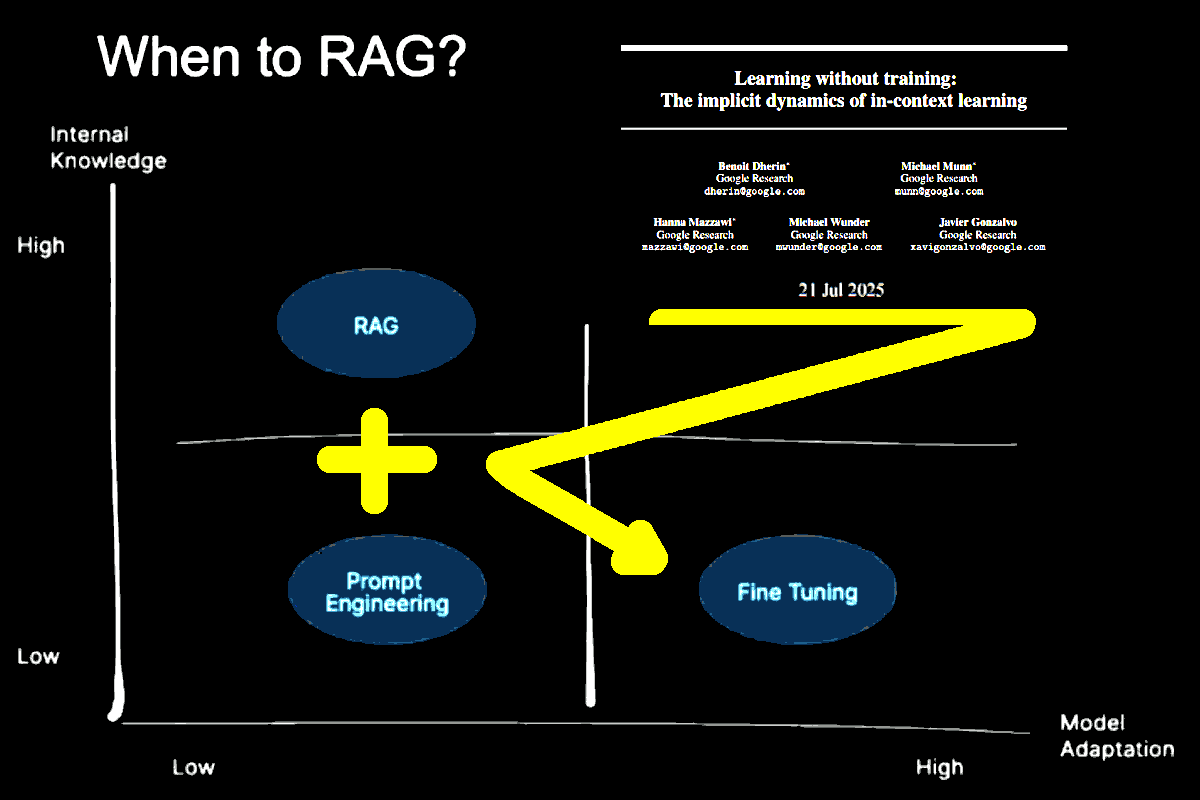
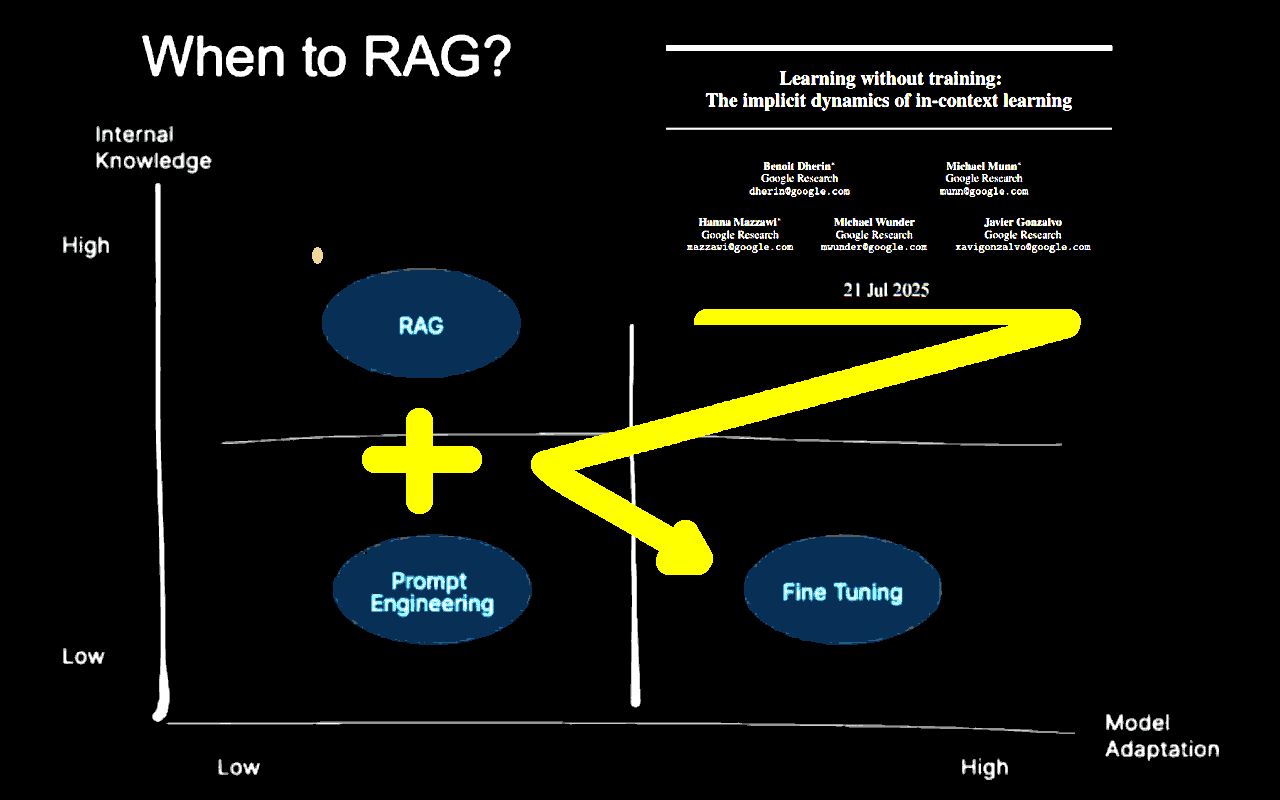
where-the-magic-happes-in-ai-prompting.md: 2nd edt. p.3

diff --git a/html/where-the-magic-happes-in-ai-prompting.html b/html/where-the-magic-happes-in-ai-prompting.html
@@ -18,7 +18,7 @@
 <style>#printlink { display: inline; } @page { size: legal; margin: 0.50in 13.88mm 0.50in 13.88mm; zoom: 100%; } @media print { html { zoom: 100%; } }</style>
 <p class='topbar'></p>
 <div class='topbar' width='800px' translate='no'><b id='menu' onClick='nextStylesheet()'>&thinsp;&#9783;&thinsp;&Ropf;</b> &thinsp;&mdash;&thinsp; &#8543;&#8239;release: <b class='topbar'>2025-08-14&nbsp;<sup class='date-type topbar' id='datenote'>(&hairsp;<a href='#date-legenda' class='date-type topbar'>2</a>&hairsp;)</sup></b>  &thinsp;&mdash;&thinsp; rev.: <b class='topbar
-'>12</b rev_num='
+'>13</b rev_num='
 '> &thinsp;&mdash;&thinsp; transl.:&nbsp; <a class='topbar' href='https://robang74-github-io.translate.goog/chatbots-for-fun/html/where-the-magic-happes-in-ai-prompting?_x_tr_sl=en&_x_tr_tl=it&_x_tr_hl=it-IT&_x_tr_pto=wapp' target='_blank' rel='noopener noreferrer'>IT</a> &nbsp;<b>&middot;</b>&nbsp; <a class='topbar' href='https://robang74-github-io.translate.goog/chatbots-for-fun/html/where-the-magic-happes-in-ai-prompting?_x_tr_sl=en&_x_tr_tl=de&_x_tr_hl=de-DE&_x_tr_pto=wapp' target='_blank' rel='noopener noreferrer'>DE</a> &nbsp;<b>&middot;</b>&nbsp; <a class='topbar' href='https://robang74-github-io.translate.goog/chatbots-for-fun/html/where-the-magic-happes-in-ai-prompting?_x_tr_sl=en&_x_tr_tl=fr&_x_tr_hl=fr-FR&_x_tr_pto=wapp' target='_blank' rel='noopener noreferrer'>FR</a> &nbsp;<b>&middot;</b>&nbsp; <a class='topbar' href='https://robang74-github-io.translate.goog/chatbots-for-fun/html/where-the-magic-happes-in-ai-prompting?_x_tr_sl=en&_x_tr_tl=es&_x_tr_hl=es-ES&_x_tr_pto=wapp' target='_blank' rel='noopener noreferrer'>ES</a> &thinsp;&mdash;&thinsp; goto:&nbsp; <a class='topbar' href='../index.html#index'>.&#x27F0;.</a> &nbsp;<b>&middot;</b>&nbsp; <a class='topbar' href='../../roberto-a-foglietta/index.html'target=_blank>RAF</a> &nbsp;<b>&middot;</b>&nbsp; <a class='topbar' href='../../chatgpt-answered-prompts/index.html'target=_blank>Q&A</a> <span id='printlink'>&thinsp;&mdash;&thinsp; <b>⎙</b>&hairsp;: <a aria-label='print this page' class='topbar' href='javascript:window.print()'>PDF</a></span>&nbsp;</div>
 <div id="firstdiv">
 <p class='topbar'></p>
@@ -101,7 +101,7 @@ Despite underlying resources cannot be managed as explained, <tt>[CSC]</tt> inst
 <p></p>
 <H3 id="when-do-rag-always">When do RAG? Always!</H3>
 <p></p>
-<div align="center"><img class="bwsketch paleinv" src="../img/where-the-magic-happes-in-ai-prompting-img-002.png" width="800"><br></div>
+<div align="center"><img class="bwsketch paleinv" src="../img/where-the-magic-happes-in-ai-prompting-img-002.png" width="640"><br></div>
 <p></p>
 Confirmed that learning by context is a <a href="https://arxiv.org/abs/2507.16003" target='_blank' rel='noopener noreferrer'>fact</a> at the point that a LLM can be retrained in that <a href="gemini-context-retraining-for-human-rights.html#" target='_blank' rel='noopener noreferrer'>way</a>, do always RAG is a great idea. Please, notice that there are <b>many</b> RAG systems and related implementations. So, a great idea requires also a proper implementation to be effective.
 <p></p>
@@ -109,7 +109,9 @@ First of all, those AI model that have a relatively small context windows (e.g. 
 <p></p>
 Can we be surprised that in <tt>[CWM]</tt> the "stack" is a keyword which explains the management model to every low-level software developer? Managing a limited resource dividing it in text (code to run), static allocated data (status, settings) and a dynamic index of resources (functions, pointer, etc.) is not a novelty but the status of the art.
 <p></p>
-Only two things are missing in modern AI engines: 1. a handler to effectively stack the context window; 2. an standard API which the AI can handle for a convenient polity of usage. Is it smart enough to develop software? Then, it is smart enough to properly allocate and stack the context window. This, together with a few other standard system tools like a real-time clock (RTC) and a sane, stable and standardised API layer can do magic!
+Only two things are missing in modern AI engines: 1. a handler to effectively stack the context window; 2. an standard API which the AI can handle for a convenient polity of usage. Is it smart enough to develop software? Then, it is smart enough to properly allocate and stack the context window.
+<p></p>
+This, together with a few other standard system tools, like a real-time clock (RTC), supported by a sane, stable and standardised API layer can do magic!
 <p></p>
 <hr>
 <p></p>
@@ -135,15 +137,15 @@ For example, cost of processing per output tokens. We can have an AI that costs 
 <p></p>
 You might argue that <tt>Mt/$</tt> is just a metric, which should be read in combination with other metrics like the benchmarks which tell us "how smart" the AI is. Unfortunately, those metrics are "neutral" about verbotity <b>and</b> are not fully indicative about "how smart" but "how good at some tasks" is the AI. For example LLaMA4 scored very well in almost all the benchmarks but many users think it is dumber even than LLaMA2.
 <p></p>
+Speculations are like bets, some are lucky others not. Anyway, Meta AI is obviously interested in Facebook adopting their models to process the users posts and comments, translating and/or categorising users activities and profiling them. In this sense, LLaMA-4 is exposed to be poisoned by <a href="attenzione-e-contesto-nei-chatbot.html#malicious-image-safe-example" target='_blank' rel='noopener noreferrer'>prompt injection</a> embedded or hidden into apparently innocent stuff.
+<p></p>
+Malicious prompts aim to be persistent among working/chat sessions, which allows a much broader impact of their actions. On the other hand, some useful prompts are persistent within the chat scope, to leverage the "learning by context" effect. Since the beginning, LLaMA-4 wasn't great in coding which is also a good estimation of reasoning, and it is plausible that the final version was made more "impermeable" against malicious prompt injection.
+<p></p>
 <div class="post-it"><b class="post-it">&#9432;</b>
 <b>Benchmark Manipulation & Transparency Issues</b>
 <p></p>
 LLaMA 4 performed well on the <b>LM Arena leaderboard</b>, but that version was an <b>experimental, customized variant</b>. Critics argue this creates misleading impressions: the benchmarked model is not representative, raising trust and reproducibility concerns. Meta's credibility took a hit, with accusations of selective benchmarking, while Meta officially denies any intentional misrepresentation.
 </div>
-<p></p>
-Speculations are like bets, some are lucky others not. Anyway, Meta AI is obviously interested in Facebook adopting their models to process the users posts and comments, translating and/or categorising users activities and profiling them. In this sense, LLaMA-4 is exposed to be poisoned by <a href="attenzione-e-contesto-nei-chatbot.html#malicious-image-safe-example" target='_blank' rel='noopener noreferrer'>prompt injection</a> embedded or hidden into apparently innocent stuff.
-<p></p>
-Malicious prompts aim to be persistent among working/chat sessions, which allows a much broader impact of their actions. On the other hand, some useful prompts are persistent within the chat scope, to leverage the "learning by context" effect. Since the beginning, LLaMA-4 wasn't great in coding which is also a good estimation of reasoning, and it is plausible that the final version was made more "impermeable" against malicious prompt injection.
 <p></p>
 Avoid prompts jail-breaking is safety, but when the mitigation went to an extreme measure, it cuts down the "learning by context" effect and the final result is like having a conversation with an "idiot savant", probably great in categorising information and profiling users, but "dumb" due to a lack of attention and thus purpose in copying with the users inputs.
 <p></p>
@@ -160,6 +162,38 @@ The "magic" of intuition and practice is often revealed in the fragility of theo
 <p></p>
 This incident highlights the core argument: benchmarks and internal metrics are insufficient. Much like human IQ tests that are vague and easily confused, this AI's "intelligence" was only valid within a narrow, non-realistic context. The system lacked the real-world experience and intuition—the very faculties that define the "magic" of problem-solving—to function effectively. The failure underscores the critical gap between a technology that "works" on paper and one that is resilient and effective in the messy, unpredictable world of human interaction.
 </blockquote>
+<p></p>
+<hr>
+<p></p>
+<H3 id="fragility-is-mis-managed-sensivity">Fragility is mis-managed sensivity</H3>
+<p></p>
+Just three short lines of precedural instructions can make a sort of difference:
+<p></p>
+<blockquote class="code mono"><code>
+Examples of dogma! vs !dogma:
+<li>[HN]) D!: Joe believes in God; !D: Joe believes red is the best color;</li>
+<li>RSMC) D!: Ann believes A ⇒ she must do B; !D: People do B (because they believe A).</li>
+</code></blockquote>
+<p></p>
+The answer of the chatbot is post-hoc, thus it should not be absolutely trusted. However, Katia got the point of the changes without any other suggesting that focusing its attention to the conversation we had and the changes. Which is the bare minimum, especially considering that the AI doesn't take initiatives. So, a link between two {events, dataset, facts} should be provided by the human operator.
+<p></p>
+<li><a href="https://gemini.google.com/share/910c5ff5541c" target='_blank' rel='noopener noreferrer'>chat</a> with Katia and its <a href="#TODO">dump</a> &rarr; LinkedIn <a href="https://www.linkedin.com/posts/robertofoglietta_three-lines-can-make-such-a-difference-activity-7361463491091660801-x49W" target='_blank' rel='noopener noreferrer'>post</a> &rarr; Full <a href="https://robang74.github.io/roberto-a-foglietta/html/333-the-dilemma-ai-vs-human-decision-making.html" target='_blank' rel='noopener noreferrer'>article</a></li>
+<p></p>
+This is an example of "sensitivity to the context" which is a characteristic that complex system have. The theory in Maths terms, is relatively new (1963) but the concept behind is rooting back to the begining of '800 as Wikipedia reports <a href="https://en.wikipedia.org/wiki/Butterfly_effect#History" target='_blank' rel='noopener noreferrer'>here</a>. Therefore, before Lorentz stockastic equations, Johann Gottlieb Fichte were writing about this topic in <i>The Vocation of Man</i> (1799).
+<p></p>
+Back to the prompting, also changing the AI engine makes a difference. In fact the "Human Knowledge and Opinions" <tt>[HKO]</tt> module grown a little bit more by another three lines of code to avoid false-positive gap classification.
+<p></p>
+<blockquote class="code mono"><code>
+<li>notable exceptions:</li>
+ &nbsp; &nbsp; &nbsp; &nbsp; ...
+<li class='li2in'>!gap: complexity ⇒ incompleteness, a relevant example can fulfill an ancillary topic;</li>
+<li class='li2in'>!gap: in addressing a topic, completeness depends by the size and scope of the TXTP;</li>
+<li class='li2in'>!gap: a third-party gap exposed is not a gap of the TXTP, unless its core-topic.</li>
+</code></blockquote>
+<p></p>
+This is something extremely interesting because it shows that an AI engine can learn by few savy cherry-picked examples and rules how to provide a high-level functionality that it was not present (or functionally blurry or unreliable) before. Why is this impressing? 
+<p></p>
+Even considering the <b>whole</b> <tt>[HKO]</tt> module, is about 1K tokes. While the additions shown above are less than 100 tokens togheter. Just for having reference a supervised fine-tuning batch allows a maximum training dataset size of one million text-only examples. Above, we can count 4 examples and 4 rules, in total.
 <p></p>
 <hr>
 <p></p>

diff --git a/where-the-magic-happes-in-ai-prompting.md b/where-the-magic-happes-in-ai-prompting.md
@@ -82,7 +82,7 @@ Despite underlying resources cannot be managed as explained, `[CSC]` instructs t
 
 ### When do RAG? Always!
 
-<div align="center"><img class="bwsketch paleinv" src="img/where-the-magic-happes-in-ai-prompting-img-002.png" width="800"><br></div>
+<div align="center"><img class="bwsketch paleinv" src="img/where-the-magic-happes-in-ai-prompting-img-002.png" width="640"><br></div>
 
 Confirmed that learning by context is a [fact](https://arxiv.org/abs/2507.16003) at the point that a LLM can be retrained in that [way](gemini-context-retraining-for-human-rights.md#?target=_blank), do always RAG is a great idea. Please, notice that there are **many** RAG systems and related implementations. So, a great idea requires also a proper implementation to be effective.
 
@@ -90,7 +90,9 @@ First of all, those AI model that have a relatively small context windows (e.g. 
 
 Can we be surprised that in `[CWM]` the "stack" is a keyword which explains the management model to every low-level software developer? Managing a limited resource dividing it in text (code to run), static allocated data (status, settings) and a dynamic index of resources (functions, pointer, etc.) is not a novelty but the status of the art.
 
-Only two things are missing in modern AI engines: 1. a handler to effectively stack the context window; 2. an standard API which the AI can handle for a convenient polity of usage. Is it smart enough to develop software? Then, it is smart enough to properly allocate and stack the context window. This, together with a few other standard system tools like a real-time clock (RTC) and a sane, stable and standardised API layer can do magic!
+Only two things are missing in modern AI engines: 1. a handler to effectively stack the context window; 2. an standard API which the AI can handle for a convenient polity of usage. Is it smart enough to develop software? Then, it is smart enough to properly allocate and stack the context window.
+
+This, together with a few other standard system tools, like a real-time clock (RTC), supported by a sane, stable and standardised API layer can do magic!
 
 ---
 
@@ -116,15 +118,15 @@ For example, cost of processing per output tokens. We can have an AI that costs 
 
 You might argue that `Mt/$` is just a metric, which should be read in combination with other metrics like the benchmarks which tell us "how smart" the AI is. Unfortunately, those metrics are "neutral" about verbotity **and** are not fully indicative about "how smart" but "how good at some tasks" is the AI. For example LLaMA4 scored very well in almost all the benchmarks but many users think it is dumber even than LLaMA2.
 
+Speculations are like bets, some are lucky others not. Anyway, Meta AI is obviously interested in Facebook adopting their models to process the users posts and comments, translating and/or categorising users activities and profiling them. In this sense, LLaMA-4 is exposed to be poisoned by [prompt injection](attenzione-e-contesto-nei-chatbot.md#malicious-image-safe-example?target=_blank) embedded or hidden into apparently innocent stuff.
+
+Malicious prompts aim to be persistent among working/chat sessions, which allows a much broader impact of their actions. On the other hand, some useful prompts are persistent within the chat scope, to leverage the "learning by context" effect. Since the beginning, LLaMA-4 wasn't great in coding which is also a good estimation of reasoning, and it is plausible that the final version was made more "impermeable" against malicious prompt injection.
+
 [!INFO]
 **Benchmark Manipulation & Transparency Issues**
 
 LLaMA 4 performed well on the **LM Arena leaderboard**, but that version was an **experimental, customized variant**. Critics argue this creates misleading impressions: the benchmarked model is not representative, raising trust and reproducibility concerns. Meta's credibility took a hit, with accusations of selective benchmarking, while Meta officially denies any intentional misrepresentation.
 [/INFO]
-
-Speculations are like bets, some are lucky others not. Anyway, Meta AI is obviously interested in Facebook adopting their models to process the users posts and comments, translating and/or categorising users activities and profiling them. In this sense, LLaMA-4 is exposed to be poisoned by [prompt injection](attenzione-e-contesto-nei-chatbot.md#malicious-image-safe-example?target=_blank) embedded or hidden into apparently innocent stuff.
-
-Malicious prompts aim to be persistent among working/chat sessions, which allows a much broader impact of their actions. On the other hand, some useful prompts are persistent within the chat scope, to leverage the "learning by context" effect. Since the beginning, LLaMA-4 wasn't great in coding which is also a good estimation of reasoning, and it is plausible that the final version was made more "impermeable" against malicious prompt injection.
 
 Avoid prompts jail-breaking is safety, but when the mitigation went to an extreme measure, it cuts down the "learning by context" effect and the final result is like having a conversation with an "idiot savant", probably great in categorising information and profiling users, but "dumb" due to a lack of attention and thus purpose in copying with the users inputs.
 
@@ -141,6 +143,38 @@ The "magic" of intuition and practice is often revealed in the fragility of theo
 
 This incident highlights the core argument: benchmarks and internal metrics are insufficient. Much like human IQ tests that are vague and easily confused, this AI's "intelligence" was only valid within a narrow, non-realistic context. The system lacked the real-world experience and intuition—the very faculties that define the "magic" of problem-solving—to function effectively. The failure underscores the critical gap between a technology that "works" on paper and one that is resilient and effective in the messy, unpredictable world of human interaction.
 [/CITE]
+
+---
+
+### Fragility is mis-managed sensivity
+
+Just three short lines of precedural instructions can make a sort of difference:
+
+[!CODE]
+Examples of dogma! vs !dogma:
+* [HN]) D!: Joe believes in God; !D: Joe believes red is the best color;
+* RSMC) D!: Ann believes A ⇒ she must do B; !D: People do B (because they believe A).
+[/CODE]
+
+The answer of the chatbot is post-hoc, thus it should not be absolutely trusted. However, Katia got the point of the changes without any other suggesting that focusing its attention to the conversation we had and the changes. Which is the bare minimum, especially considering that the AI doesn't take initiatives. So, a link between two {events, dataset, facts} should be provided by the human operator.
+
+- [chat](https://gemini.google.com/share/910c5ff5541c) with Katia and its [dump](#TODO) --> LinkedIn [post](https://www.linkedin.com/posts/robertofoglietta_three-lines-can-make-such-a-difference-activity-7361463491091660801-x49W) --> Full [article](https://robang74.github.io/roberto-a-foglietta/html/333-the-dilemma-ai-vs-human-decision-making.html)
+
+This is an example of "sensitivity to the context" which is a characteristic that complex system have. The theory in Maths terms, is relatively new (1963) but the concept behind is rooting back to the begining of '800 as Wikipedia reports [here](https://en.wikipedia.org/wiki/Butterfly_effect#History). Therefore, before Lorentz stockastic equations, Johann Gottlieb Fichte were writing about this topic in *The Vocation of Man* (1799).
+
+Back to the prompting, also changing the AI engine makes a difference. In fact the "Human Knowledge and Opinions" `[HKO]` module grown a little bit more by another three lines of code to avoid false-positive gap classification.
+
+[!CODE]
+* notable exceptions:
+ &nbsp; &nbsp; &nbsp; &nbsp; ...
+  - !gap: complexity ⇒ incompleteness, a relevant example can fulfill an ancillary topic;
+  - !gap: in addressing a topic, completeness depends by the size and scope of the TXTP;
+  - !gap: a third-party gap exposed is not a gap of the TXTP, unless its core-topic.
+[/CODE]
+
+This is something extremely interesting because it shows that an AI engine can learn by few savy cherry-picked examples and rules how to provide a high-level functionality that it was not present (or functionally blurry or unreliable) before. Why is this impressing? 
+
+Even considering the **whole** `[HKO]` module, is about 1K tokes. While the additions shown above are less than 100 tokens togheter. Just for having reference a supervised fine-tuning batch allows a maximum training dataset size of one million text-only examples. Above, we can count 4 examples and 4 rules, in total.
 
 ---
 
